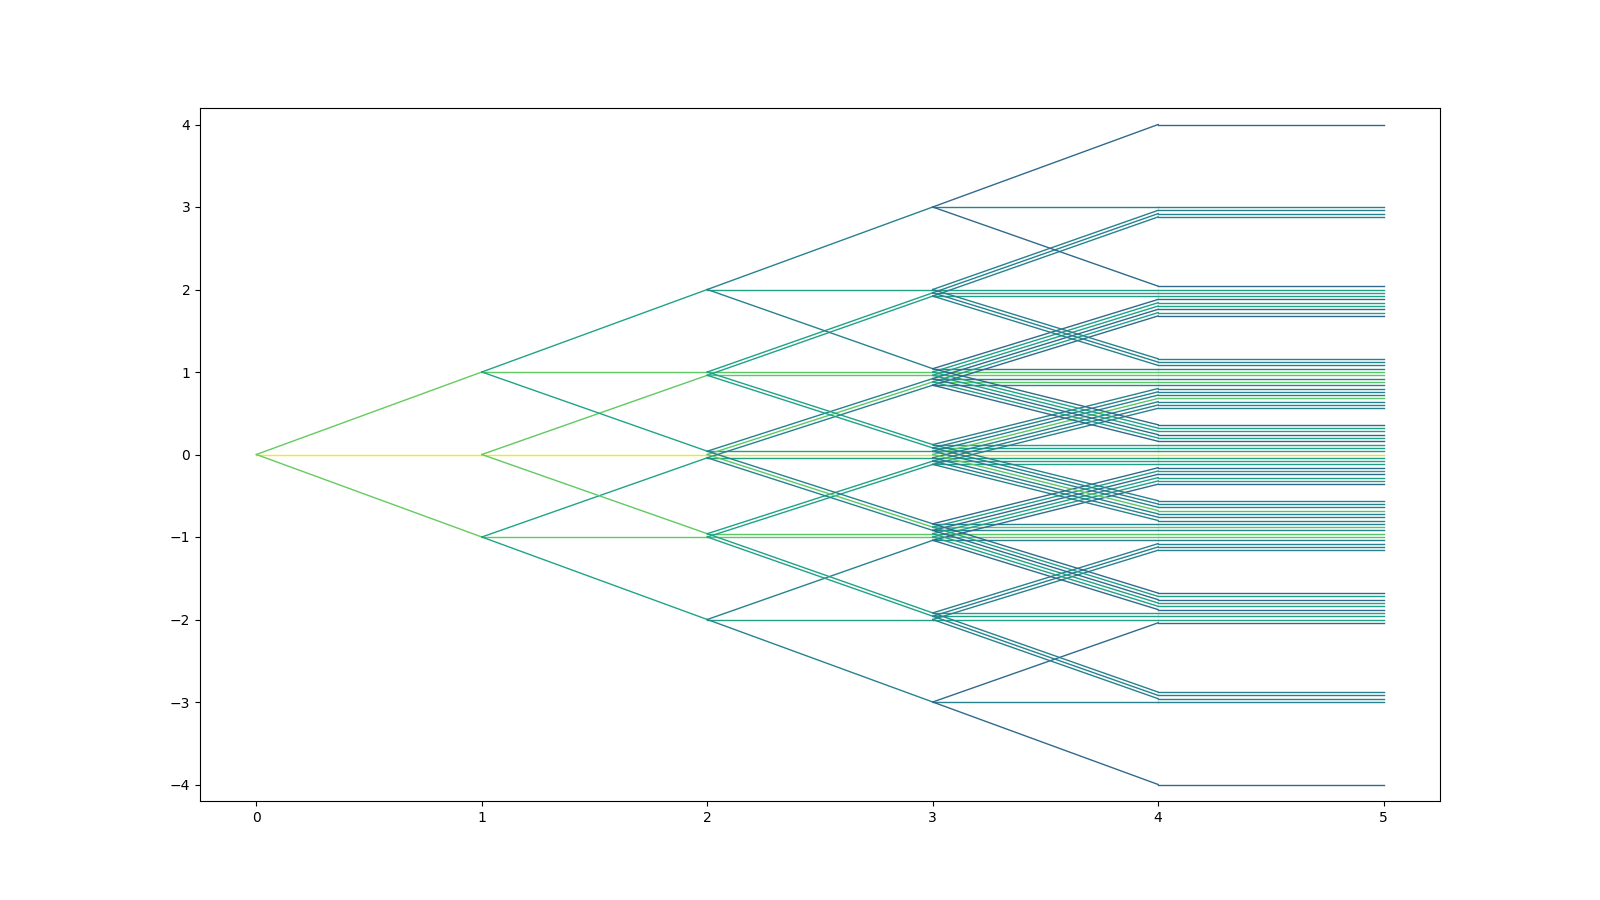
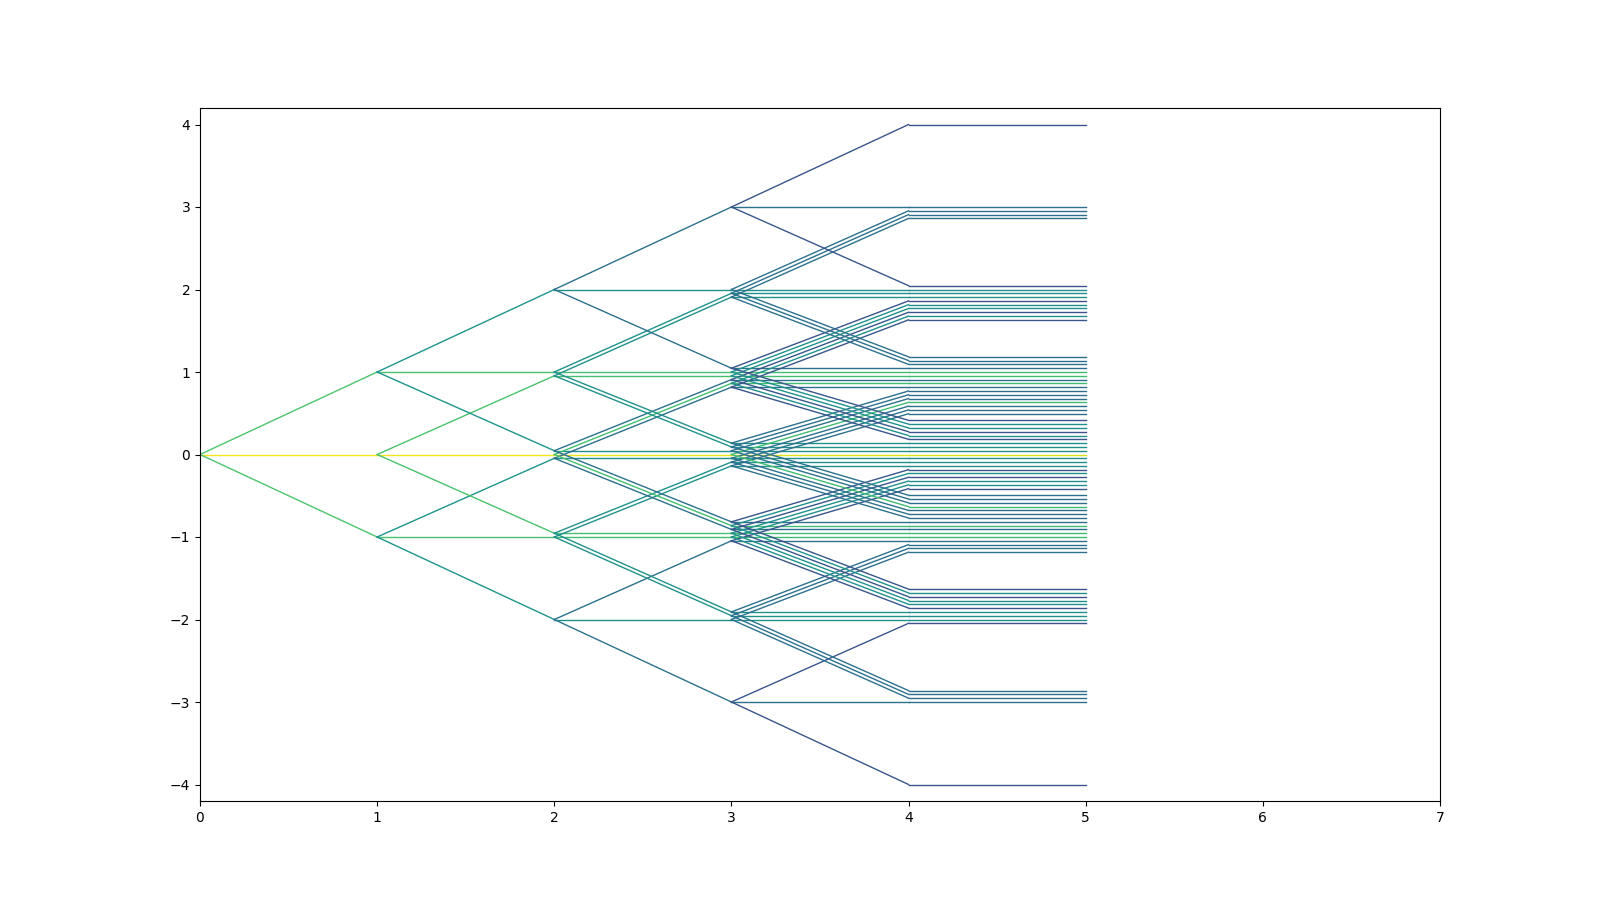
adds updates illustraions

diff --git a/illustration.py b/illustration.py
@@ -1,20 +1,24 @@
 import operator
 import matplotlib.pyplot as plt
 
-inp = 4
+inp = 6
 max_iterations = inp
 max_sum_goals = 2
 max_goal_difference = inp
-ddy = 0.04
-ex = 0.09
-w = 1
-goal_differences = [[[{"n_above": 0, "n_below": 0, "n": 1}]]]
-points = [[{"home_goals": 0, "away_goals": 0, "x": 0, "y": 0, "p": 1}]]
-cmap = plt.get_cmap('viridis')
 
 pn = 0.90
 ph = 0.05
 pa = max(1 - pn - ph, 0)
+
+ddy = 0.046
+ex = 0.11
+w = 1
+
+cmap = plt.get_cmap('viridis')
+figname = "Figure_4"
+figsize = (16, 9)
+ylim = [-4.2, 4.2]
+xlim = [0, 7]
 
 def straight(point, i):
     diff = point["home_goals"] - point["away_goals"]
@@ -67,7 +71,9 @@ def down(point, i):
     plt.plot([x0, x1], [y0, y1], c=cmap(p**ex), linewidth = w)
     points[i + 1].append({"home_goals": point["home_goals"], "away_goals": point["away_goals"] + 1, "x": x1, "y": y1, "p": p})
 
-plt.figure(figsize=(16, 9))
+goal_differences = [[[{"n_above": 0, "n_below": 0, "n": 1}]]]
+points = [[{"home_goals": 0, "away_goals": 0, "x": 0, "y": 0, "p": 1}]]
+plt.figure(figsize=figsize)
 for i in range(max_iterations + 1):
     points.append(int(3**(i + 1)) * [])
     j = min(i, max_sum_goals)
@@ -86,6 +92,7 @@ for i in range(max_iterations + 1):
         if -goal_difference + 1 <= max_goal_difference and sum_goals + 1 <= max_sum_goals  and i < max_iterations:
             down(point, i)
     points[i + 1] = sorted(points[i + 1], key=operator.itemgetter('y'), reverse=True)
-plt.ylim([-4.2, 4.2])
-plt.savefig("Figure_3")
+plt.ylim(ylim)
+plt.xlim(xlim)
+plt.savefig(figname)
 plt.show()
